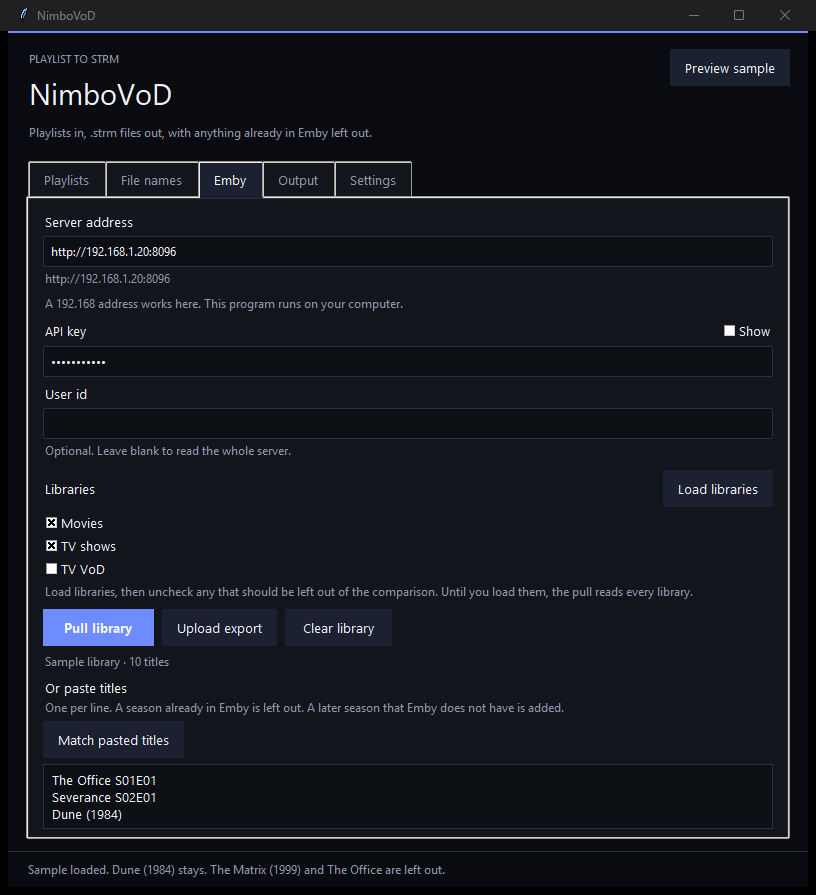
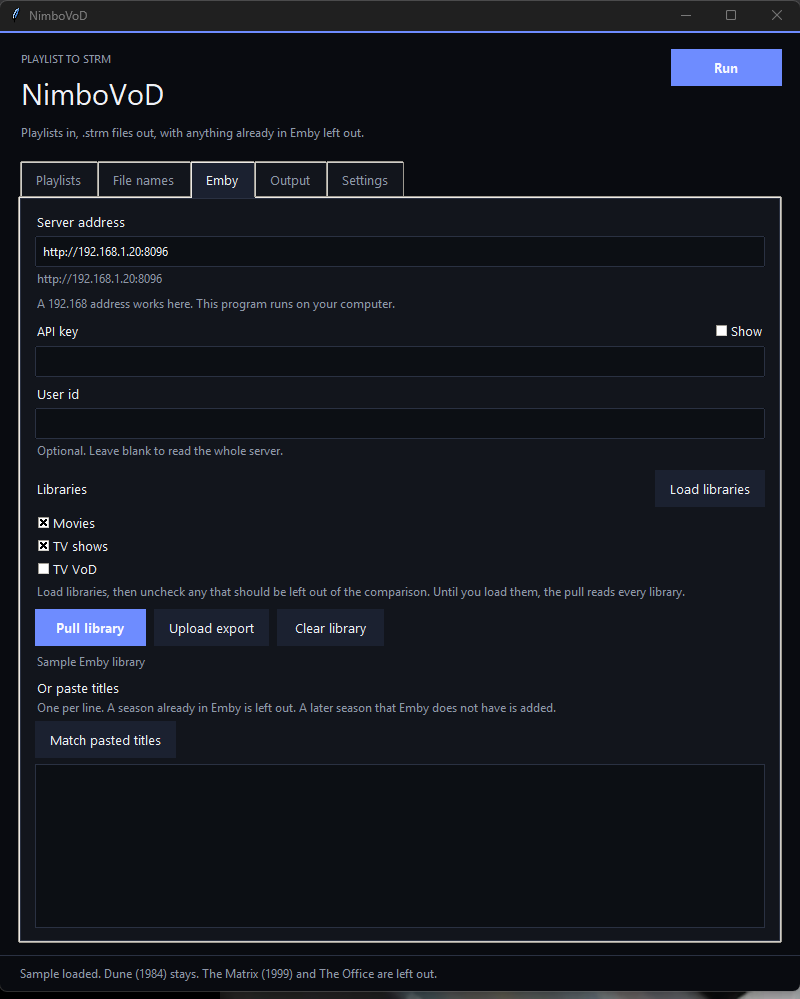
Add a Run button that loads playlists, pulls Emby, and updates the .strm folder.

Changed region(s): [[0.0, 0.0, 1.0, 1.0]]

diff --git a/src/assets/nimbovod_gui.py b/src/assets/nimbovod_gui.py
@@ -2,8 +2,8 @@
 """NimboVoD desktop window.
 
 Load M3U playlists, compare them with an Emby library, and write the .strm
-folder. Nothing is written or deleted until Write .strm files is confirmed,
-unless automatic updates are turned on in Settings.
+folder. Run does that full update. Write .strm files still asks before it
+changes the folder on its own. Settings can run the same steps automatically.
 """
 
 from __future__ import annotations
@@ -40,7 +40,7 @@ ERROR_FG = "#f0c8d0"
 ERROR_LINE = "#c45d6e"
 MAX_PLAYLIST_BYTES = 80 * 1024 * 1024
 TREE_LIMIT = 2500
-APP_VERSION = "1.13"
+APP_VERSION = "1.14"
 RELEASES_URL = "https://api.github.com/repos/Coldsac/NimboVoD/releases?per_page=30"
 
 LAYOUT_HINTS = {
@@ -1029,9 +1029,9 @@ class App(tk.Tk):
             wraplength=340,
         )
         self.header_blurb.pack(anchor="w", pady=(6, 0))
-        sample = ttk.Button(header, text="Preview sample", command=self.load_sample)
-        sample.pack(side="right", anchor="n", padx=(16, 0))
-        self._buttons.append(sample)
+        run = ttk.Button(header, text="Run", command=self.run_all, style="Accent.TButton")
+        run.pack(side="right", anchor="n", padx=(16, 0))
+        self._buttons.append(run)
 
         self.error_host = tk.Frame(self, bg=CANVAS)
         tk.Frame(self.error_host, bg=ERROR_LINE, width=3).pack(side="left", fill="y")
@@ -1861,6 +1861,20 @@ class App(tk.Tk):
         if not steps:
             self._schedule_refresh()
             return
+        self._start_pipeline(steps)
+
+    def run_all(self) -> None:
+        """Load playlists, pull Emby, then update the .strm folder."""
+        if self._busy or self._auto_running or self._auto_queue:
+            return
+        if not self.winfo_exists():
+            return
+        if self._startup_job is not None:
+            self.after_cancel(self._startup_job)
+            self._startup_job = None
+        self._start_pipeline(["playlists", "emby", "apply"])
+
+    def _start_pipeline(self, steps: list[str]) -> None:
         snapshot = self._auto_snapshot(steps)
         self._auto_running = True
         self._busy = True
@@ -1993,7 +2007,7 @@ class App(tk.Tk):
                 self._call_on_ui(lambda: self.status.set("Updating Emby library…"))
                 if not snapshot["emby"] or not snapshot["api_key"]:
                     emby_ok = False
-                    message = "Enter the Emby server address and API key before automatic library updates."
+                    message = "Enter the Emby server address and API key."
                     self._call_on_ui(lambda message=message: self._set_error(message))
                 elif snapshot.get("libraries") == []:
                     emby_ok = False
@@ -2098,7 +2112,7 @@ class App(tk.Tk):
         failures: list[str] = []
         total = len(files) + len(urls)
         if total == 0:
-            return loaded, ["Add a playlist link or playlist file before automatic loading."], 0
+            return loaded, ["Add a playlist link or playlist file."], 0
         number = 0
         for path in files:
             number += 1
@@ -3534,6 +3548,7 @@ def self_check() -> None:
         assert app.link_list.yview()[0] > before
         assert app._wheel_pending == 0
         app.link_list.delete(0, "end")
+        assert app._buttons[0].cget("text") == "Run"
         app.load_sample()
         app.show_plan()
         app.update()
@@ -3669,16 +3684,14 @@ def self_check() -> None:
             if app._tag_job is not None:
                 app.after_cancel(app._tag_job)
                 app._tag_job = None
-            snapshot = app._auto_snapshot(["playlists", "emby", "apply"])
-            app._auto_running = True
-            app._busy = True
-            worker = threading.Thread(target=lambda: app._auto_pipeline(snapshot), daemon=True)
-            worker.start()
+            app.run_all()
+            assert app._auto_running and app._busy
+            assert app._auto_queue == ["playlists", "emby", "apply"]
+            assert app._buttons[0].instate(["disabled"])
             deadline = time.time() + 15
-            while time.time() < deadline and worker.is_alive():
+            while time.time() < deadline and app._auto_running:
                 app.update()
                 time.sleep(0.02)
-            worker.join(2)
             assert order == ["playlist", "playlist", "emby", "write"], (order, problems, app.status.get())
             assert not problems, problems
             assert not app._auto_running

diff --git a/README.md b/README.md
@@ -20,7 +20,7 @@ NimboVoD is a Windows desktop program. It runs on your computer, so a home-netwo
   <img src="docs/images/steps.png" width="760" alt="Three steps: load playlists, compare with Emby, write the folder">
 </p>
 
-The pictures below use **Preview sample**, example playlist links, and a stand-in server address.
+The pictures below use example playlist links, a stand-in server address, and the built-in sample playlist.
 
 <p align="center">
   <img src="docs/images/playlists.png" width="680" alt="Playlists tab with two M3U links, a loaded sample, and the Movies and TV layout">
@@ -29,6 +29,8 @@ The pictures below use **Preview sample**, example playlist links, and a stand-i
 ## The window
 
 The window opens on **Playlists**. The other tabs are **File names**, **Emby**, **Output**, and **Settings**.
+
+**Run** is at the top of the window. It loads the saved playlists, pulls Emby, then updates the `.strm` folder, in that order. It starts immediately. A failed playlist or Emby pull skips the folder write. **Load playlists**, **Pull library**, and **Write .strm files** still do one step at a time. **Write .strm files** asks before it changes the folder.
 
 Minimizing the window hides NimboVoD in the notification area. Click the icon to open it again. Right-click the icon and choose **Exit** to quit. The title-bar close button quits.
 
@@ -98,7 +100,7 @@ The options in that picture are an example. They start off, and **Refresh every*
 - **Automatically pull the Emby library** reads Emby with the saved address and API key.
 - **Automatically update the .strm folder** adds new `.strm` files and removes ones the plan leaves out. That step does not ask again.
 
-Checked steps wait one minute after the program opens, then run one at a time: playlists, then Emby, then the `.strm` folder. A failed playlist or Emby pull skips the folder write. **Refresh every** repeats the checked steps after that many minutes, without the extra startup minute. Leave it blank to run only that first update. One minute is the shortest interval. Seven days is the longest. After the playlists load, the bottom of the window shows when they were last pulled. That time stays until the next successful pull.
+**Run** does that full update immediately and does not use these checkboxes. Checked steps wait one minute after the program opens, then run one at a time: playlists, then Emby, then the `.strm` folder. A failed playlist or Emby pull skips the folder write. **Refresh every** repeats the checked steps after that many minutes, without the extra startup minute. Leave it blank to run only that first update. One minute is the shortest interval. Seven days is the longest. After the playlists load, the bottom of the window shows when they were last pulled. That time stays until the next successful pull.
 
 **Check for updates** reads the [GitHub releases](https://github.com/Coldsac/NimboVoD/releases) and shows anything newer than this copy. **Open release page** opens that release so you can download it.
 
